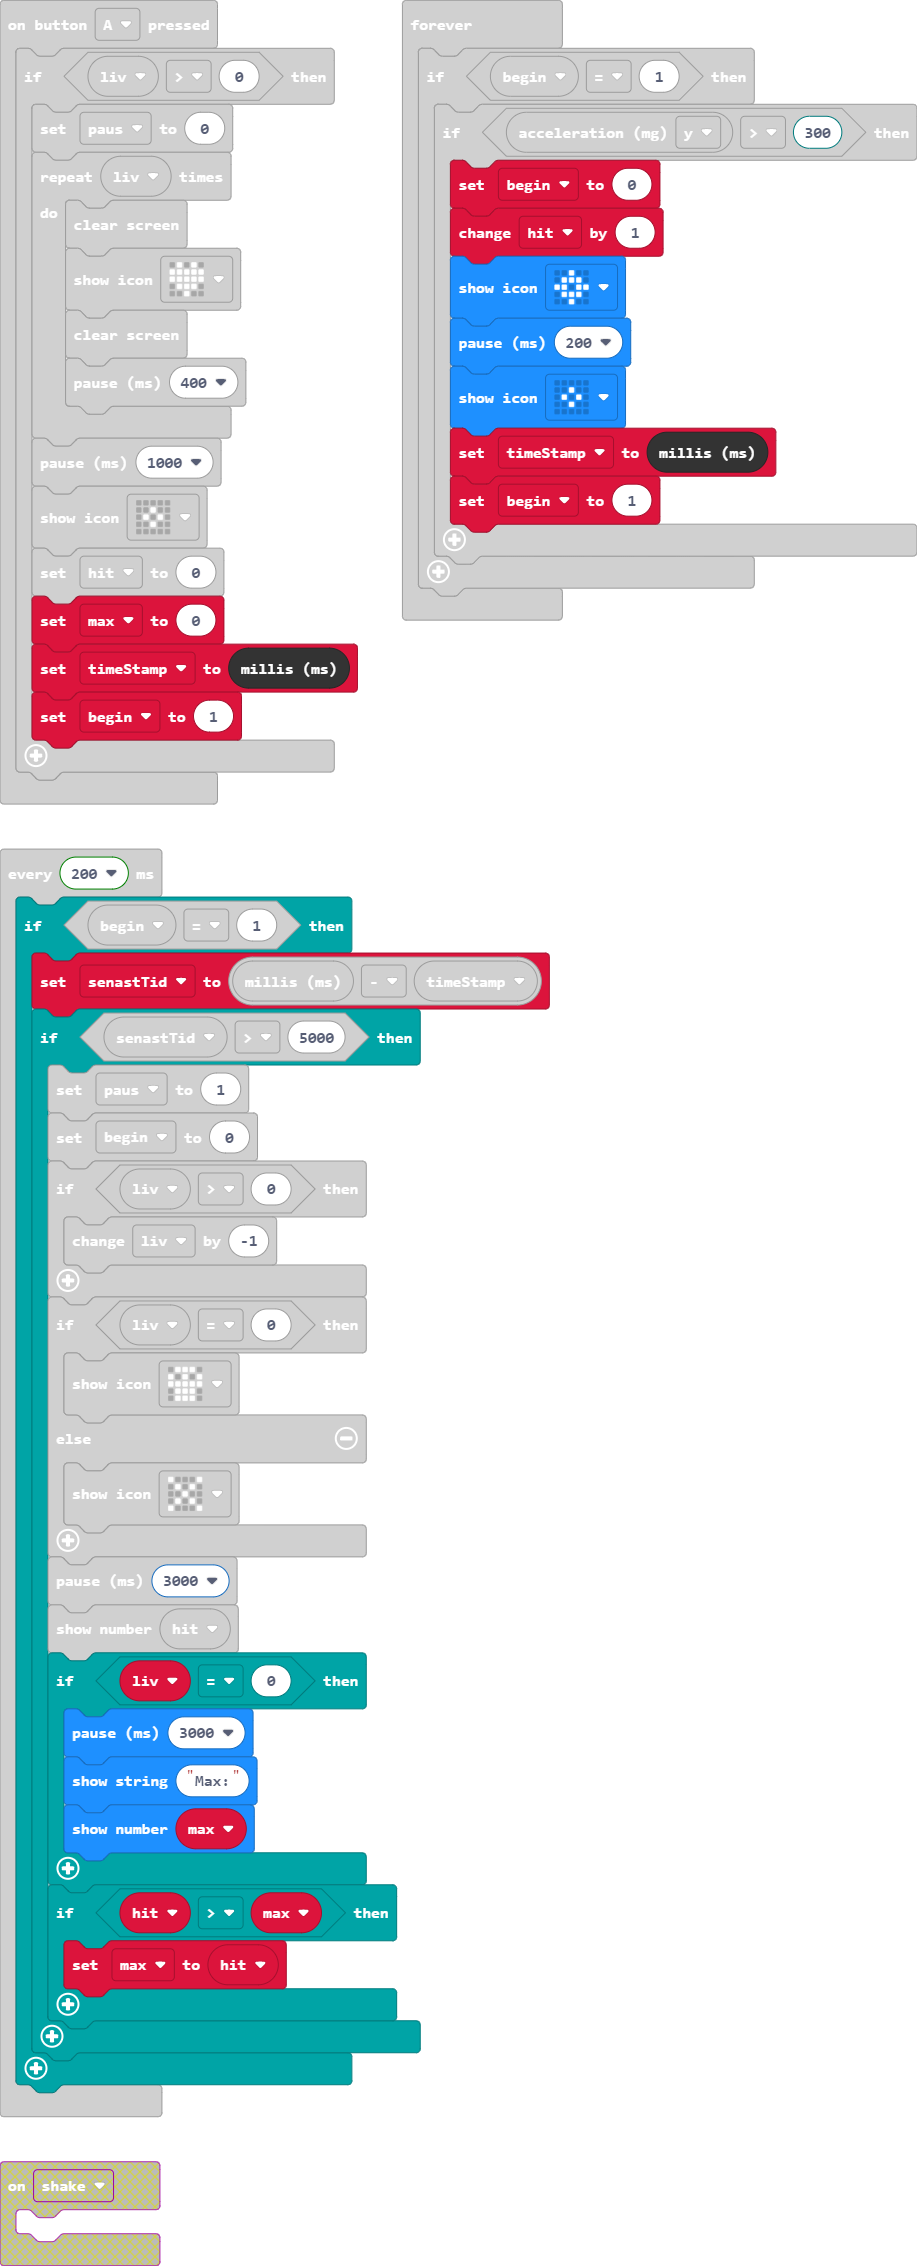
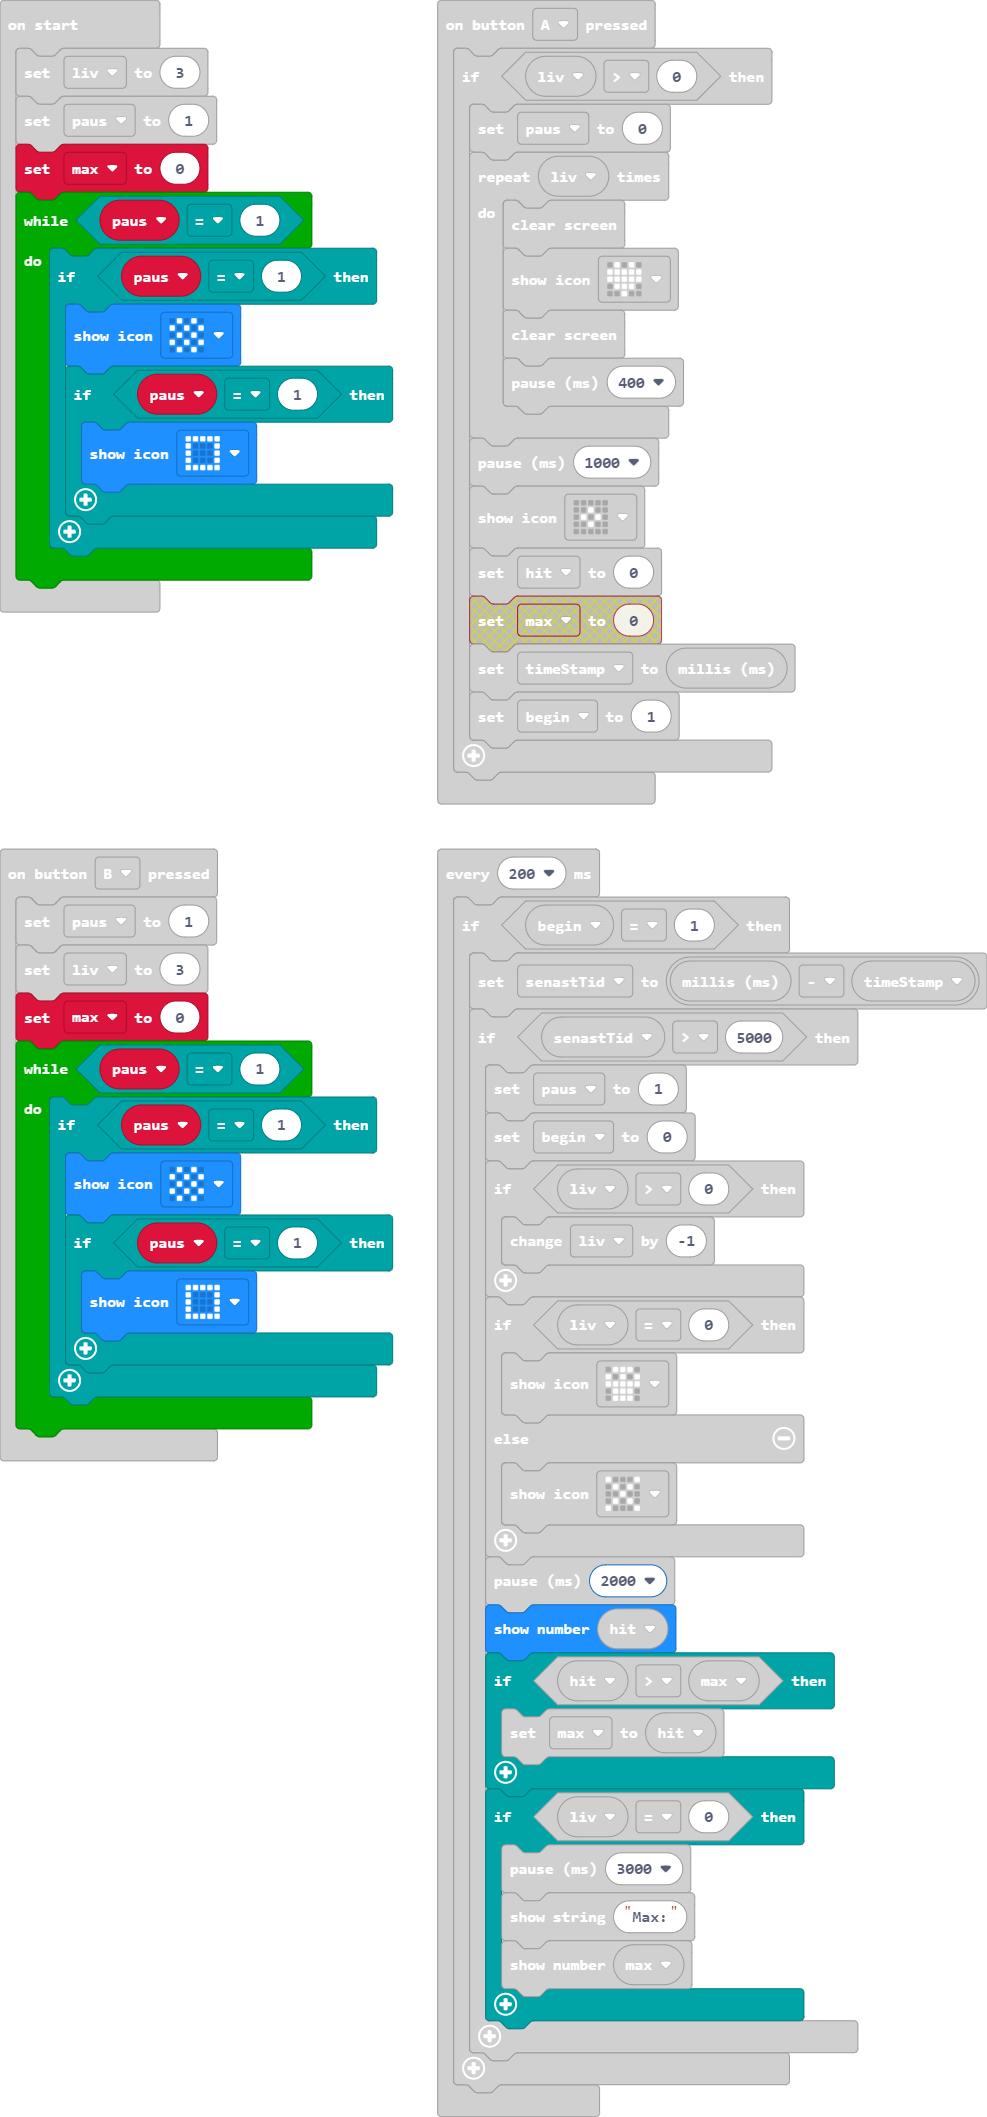
Update main.blocks, main.ts

diff --git a/main.ts b/main.ts
@@ -10,7 +10,6 @@ input.onButtonPressed(Button.A, function () {
         basic.pause(1000)
         basic.showIcon(IconNames.SmallDiamond)
         hit = 0
-        max = 0
         timeStamp = control.millis()
         begin = 1
     }
@@ -18,6 +17,7 @@ input.onButtonPressed(Button.A, function () {
 input.onButtonPressed(Button.B, function () {
     paus = 1
     liv = 3
+    max = 0
     while (paus == 1) {
         if (paus == 1) {
             basic.showIcon(IconNames.Chessboard)
@@ -30,12 +30,13 @@ input.onButtonPressed(Button.B, function () {
 let senastTid = 0
 let begin = 0
 let timeStamp = 0
-let max = 0
 let hit = 0
+let max = 0
 let paus = 0
 let liv = 0
 liv = 3
 paus = 1
+max = 0
 while (paus == 1) {
     if (paus == 1) {
         basic.showIcon(IconNames.Chessboard)
@@ -71,15 +72,15 @@ loops.everyInterval(200, function () {
             } else {
                 basic.showIcon(IconNames.No)
             }
-            basic.pause(3000)
+            basic.pause(2000)
             basic.showNumber(hit)
+            if (hit > max) {
+                max = hit
+            }
             if (liv == 0) {
                 basic.pause(3000)
                 basic.showString("Max:")
                 basic.showNumber(max)
-            }
-            if (hit > max) {
-                max = hit
             }
         }
     }
